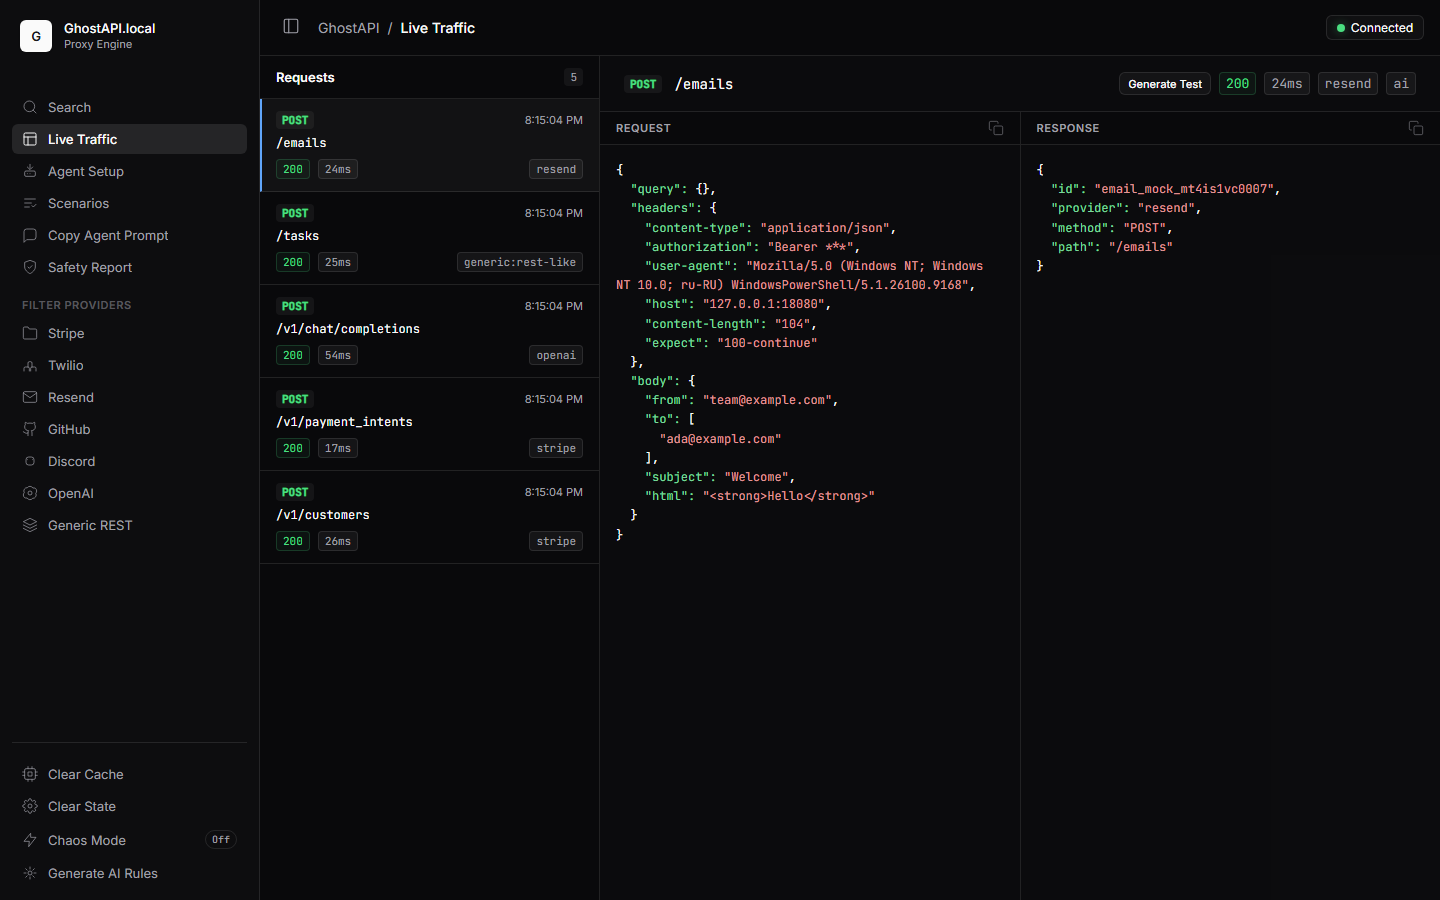
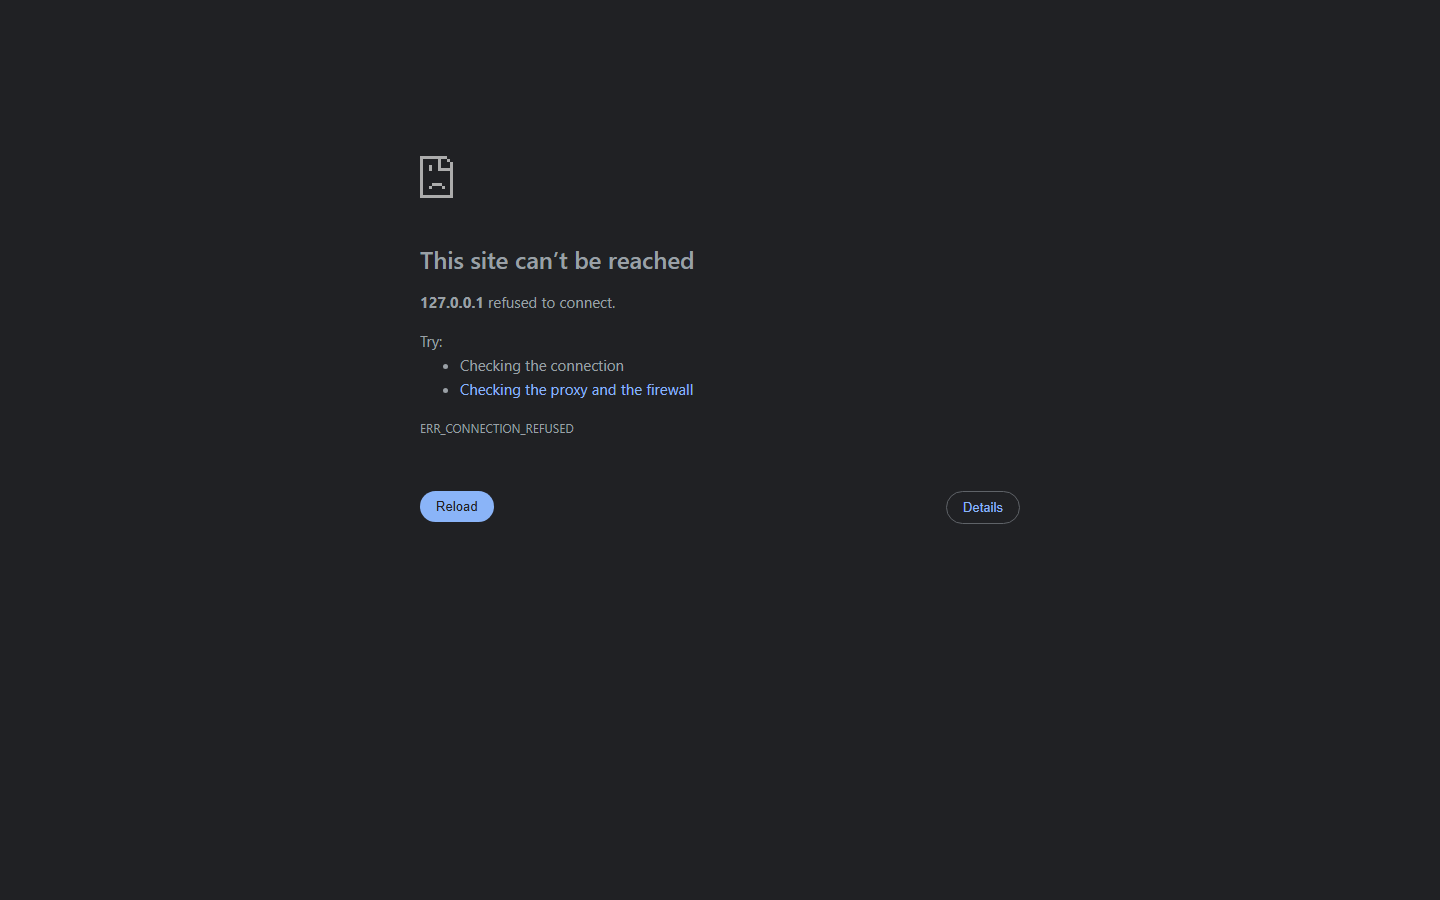
Update desktop dashboard layout

diff --git a/src/dashboard/index.html b/src/dashboard/index.html
@@ -17,7 +17,7 @@
     <div class="ws-switcher">
       <div class="ws-btn" style="cursor: default">
         <div class="ws-btn-content">
-          <div class="ws-avatar">G</div>
+          <div class="ws-avatar">👻</div>
           <div class="ws-info">
             <span class="ws-title">GhostAPI.local</span>
             <span class="ws-subtitle">Proxy Engine</span>
